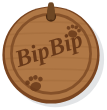
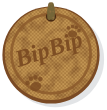
Thẻ tên: da giả/vải ép có vân dệt, dây da lộn khaki có vân nhung
- Bỏ vân gỗ; mặt thẻ nâu caramel mờ với lưới dệt mịn (pattern) và lốm đốm nhẹ (noise), chữ/dấu chân/viền khắc chìm nhạt hơn
- Dây da lộn màu xanh ô liu khaki như ảnh thật, thêm vân nhung (filter suede)
- Tạo lại PNG tag, strap, penguin-plush.svg; cập nhật README Rive

Claude-Session: https://claude.ai/code/session_01QMkjUPyG7HGKPseKjEMk1E

diff --git a/packages/web/penguin.js b/packages/web/penguin.js
@@ -661,7 +661,24 @@
     '<linearGradient id="' + N + 'beak" x1="0" y1="0" x2="0" y2="1">' +
       '<stop offset="0" stop-color="#F7DE80"/><stop offset=".55" stop-color="#F2D46B"/><stop offset="1" stop-color="#E9C95E"/>' +
     '</linearGradient>' +
-    '<clipPath id="' + N + 'tagclip"><circle cx="100" cy="163.6" r="15.4"/></clipPath>' +
+    // thẻ da giả/vải ép: lưới dệt mịn đều (pattern), lốm đốm nhẹ (noise), mờ
+    '<pattern id="' + N + 'tagweave" width="1.2" height="1.2" patternUnits="userSpaceOnUse">' +
+      '<rect width=".6" height=".6" fill="#FFE2B0" opacity=".11"/><rect x=".6" y=".6" width=".6" height=".6" fill="#FFE2B0" opacity=".11"/>' +
+      '<rect x=".6" width=".6" height=".6" fill="#4F2B10" opacity=".14"/><rect y=".6" width=".6" height=".6" fill="#4F2B10" opacity=".14"/>' +
+    '</pattern>' +
+    '<filter id="' + N + 'tagmot" x="0" y="0" width="100%" height="100%" color-interpolation-filters="sRGB">' +
+      '<feTurbulence type="fractalNoise" baseFrequency=".3" numOctaves="3" seed="7" result="n"/>' +
+      '<feColorMatrix in="n" values="0 0 0 0 .38 0 0 0 0 .2 0 0 0 0 .08 0 0 0 1.5 -.6" result="m"/>' +
+      '<feComposite in="m" in2="SourceGraphic" operator="in"/>' +
+    '</filter>' +
+    // da lộn: nhung mịn, viền hơi xù
+    '<filter id="' + N + 'suede" x="-40%" y="-40%" width="180%" height="180%" color-interpolation-filters="sRGB">' +
+      '<feTurbulence type="fractalNoise" baseFrequency=".95" numOctaves="2" seed="5" result="n"/>' +
+      '<feDisplacementMap in="SourceGraphic" in2="n" scale=".6" xChannelSelector="R" yChannelSelector="G" result="d"/>' +
+      '<feColorMatrix in="n" values="0 0 0 0 .72 0 0 0 0 .5 0 0 0 0 .3 0 0 0 1.3 -.7" result="h"/>' +
+      '<feComposite in="h" in2="d" operator="in" result="h2"/>' +
+      '<feMerge><feMergeNode in="d"/><feMergeNode in="h2"/></feMerge>' +
+    '</filter>' +
     '<linearGradient id="' + N + 'beakb" x1="0" y1="0" x2="0" y2="1">' +
       '<stop offset="0" stop-color="#EACB60"/><stop offset="1" stop-color="#E3BE4F"/>' +
     '</linearGradient>';
@@ -700,7 +717,7 @@
     'M88 32 C83 29 81 24 83 19 C85 24 89 27 94 29 Z M106 30 C110 26 115 24 119 25 C115 27 112 30 111 33 Z';
 
   // Dấu chân thú: một đệm lớn và bốn ngón, vẽ quanh gốc (0 0), dùng khắc chìm lên thẻ
-  var TAG_PAW = '<g fill="#6A3A1A" opacity=".85">' +
+  var TAG_PAW = '<g fill="#7E4E24" opacity=".85">' +
     '<ellipse cx="0" cy="1.6" rx="3" ry="2.4"/>' +
     '<circle cx="-3.6" cy="-1.6" r="1.25"/><circle cx="-1.25" cy="-3.2" r="1.25"/>' +
     '<circle cx="1.25" cy="-3.2" r="1.25"/><circle cx="3.6" cy="-1.6" r="1.25"/></g>';
@@ -716,11 +733,11 @@
         blob(100, 142, 64, 13, 'shade') +
       '</g>' +
       // dây da lộn của thẻ: nằm SAU đầu (đầu che phần dây đi lên cổ), chỉ ló ra dưới mép cằm; cùng nhịp lắc với thẻ
-      '<g class="pg-strap"><g transform="translate(0 -3)" fill="none" stroke-linecap="round">' +
-        '<path d="M99.4 151.4 C99 147.6 97.8 143 97.6 137.6" stroke="#6E4724" stroke-width="2.4"/>' +
-        '<path d="M100.6 151.4 C101 147.6 102.2 143 102.4 137.6" stroke="#6E4724" stroke-width="2.4"/>' +
-        '<path d="M99.4 151.4 C99 147.6 97.8 143 97.6 137.6" stroke="#9A6B3A" stroke-width=".9" opacity=".7"/>' +
-        '<path d="M100.6 151.4 C101 147.6 102.2 143 102.4 137.6" stroke="#9A6B3A" stroke-width=".9" opacity=".7"/>' +
+      '<g class="pg-strap"><g transform="translate(0 -3)" fill="none" stroke-linecap="round" filter="' + u('suede') + '">' +
+        '<path d="M99.4 151.4 C99 147.6 97.8 143 97.6 137.6" stroke="#756538" stroke-width="2.4"/>' +
+        '<path d="M100.6 151.4 C101 147.6 102.2 143 102.4 137.6" stroke="#756538" stroke-width="2.4"/>' +
+        '<path d="M99.4 151.4 C99 147.6 97.8 143 97.6 137.6" stroke="#9C8C58" stroke-width=".7" opacity=".5"/>' +
+        '<path d="M100.6 151.4 C101 147.6 102.2 143 102.4 137.6" stroke="#9C8C58" stroke-width=".7" opacity=".5"/>' +
       '</g></g>' +
       // head
       '<g class="pg-headg" filter="' + u('fuzz') + '">' +
@@ -738,26 +755,23 @@
         '<g transform="translate(0 4)"><path d="' + tufts + '" fill="#5A6475"/>' +
         strands('M97 29l-4 -10M101 28l1 -11M104 30l5 -9M92 31l-7 -6', '#5A6475', 1.6) + '</g>' +
       '</g>' +
-      // thẻ tên gỗ tròn, mặt mờ (không bóng), khắc chìm; thẻ treo ngay dưới cằm; dây da lộn là lớp riêng (pg-strap) nằm sau đầu; lắc quanh lỗ (100 148.2)
+      // thẻ tên tròn da giả/vải ép, mặt mờ (không bóng) có vân dệt, khắc chìm; thẻ treo ngay dưới cằm; dây da lộn là lớp riêng (pg-strap) nằm sau đầu; lắc quanh lỗ (100 148.2)
       '<g class="pg-tag"><g transform="translate(0 -3)">' +
         '<ellipse cx="101.4" cy="165.4" rx="16.3" ry="16" fill="#3E4757" opacity=".15"/>' +
-        '<circle cx="100" cy="164" r="16.2" fill="#7A4520"/>' +
-        '<circle cx="100" cy="163.6" r="15.4" fill="#B07846"/>' +
-        // vân gỗ rất nhẹ
-        '<g clip-path="' + u('tagclip') + '" fill="none" stroke="#8A5528" stroke-width=".5" opacity=".2">' +
-          '<path d="M82 154 Q100 151.6 118 154.4"/><path d="M82 157.6 Q100 155.6 118 158"/><path d="M82 161.4 Q100 159.8 118 161.8"/>' +
-          '<path d="M82 165.4 Q100 164 118 165.6"/><path d="M82 169.2 Q100 168 118 169.4"/><path d="M82 173 Q100 172 118 173"/>' +
-        '</g>' +
+        '<circle cx="100" cy="164" r="16.2" fill="#7A4A24"/>' +
+        '<circle cx="100" cy="163.6" r="15.4" fill="#BA8B48"/>' +
+        '<circle cx="100" cy="163.6" r="15.4" fill="#6A3A1A" filter="' + u('tagmot') + '" opacity=".7"/>' +
+        '<circle cx="100" cy="163.6" r="15.4" fill="' + u('tagweave') + '"/>' +
         // vòng viền chìm sát mép
-        '<circle cx="100" cy="163.6" r="13.2" fill="none" stroke="#7E4A25" stroke-width=".9" opacity=".85"/>' +
+        '<circle cx="100" cy="163.6" r="13.2" fill="none" stroke="#8C5A2C" stroke-width=".9" opacity=".85"/>' +
         '<circle cx="100" cy="151.2" r="1.7" fill="#4A2A12"/>' +
         // đoạn dây đi qua lỗ, vắt lên mép trên của thẻ
-        '<path d="M99.5 151.6 C99.3 150 99.4 148.6 99.8 147.2 M100.5 151.6 C100.7 150 100.6 148.6 100.2 147.2" fill="none" stroke="#6E4724" stroke-width="1.5" stroke-linecap="round"/>' +
+        '<path d="M99.5 151.6 C99.3 150 99.4 148.6 99.8 147.2 M100.5 151.6 C100.7 150 100.6 148.6 100.2 147.2" fill="none" stroke="#756538" stroke-width="1.5" stroke-linecap="round" filter="' + u('suede') + '"/>' +
         // họa tiết dấu chân và chữ khắc chìm
         '<g transform="translate(107.4 156.2) rotate(14) scale(.5)">' + TAG_PAW + '</g>' +
         '<g transform="translate(94.6 173.6) rotate(-16) scale(.62)">' + TAG_PAW + '</g>' +
         '<g transform="rotate(-18 100 164.2)" font-family="Brush Script MT, Segoe Script, Georgia, Times New Roman, serif" font-style="italic" font-weight="700" font-size="8" text-anchor="middle">' +
-          '<text x="100" y="164.5" fill="#6A3A1A">BipBip</text>' +
+          '<text x="100" y="164.5" fill="#7E4E24">BipBip</text>' +
         '</g>' +
       '</g></g>' +
       '<g transform="translate(100 33) rotate(-6) scale(1.1) translate(-100 -44)">' + P.CAP + '</g>' +

diff --git a/penguin.js b/penguin.js
@@ -661,7 +661,24 @@
     '<linearGradient id="' + N + 'beak" x1="0" y1="0" x2="0" y2="1">' +
       '<stop offset="0" stop-color="#F7DE80"/><stop offset=".55" stop-color="#F2D46B"/><stop offset="1" stop-color="#E9C95E"/>' +
     '</linearGradient>' +
-    '<clipPath id="' + N + 'tagclip"><circle cx="100" cy="163.6" r="15.4"/></clipPath>' +
+    // thẻ da giả/vải ép: lưới dệt mịn đều (pattern), lốm đốm nhẹ (noise), mờ
+    '<pattern id="' + N + 'tagweave" width="1.2" height="1.2" patternUnits="userSpaceOnUse">' +
+      '<rect width=".6" height=".6" fill="#FFE2B0" opacity=".11"/><rect x=".6" y=".6" width=".6" height=".6" fill="#FFE2B0" opacity=".11"/>' +
+      '<rect x=".6" width=".6" height=".6" fill="#4F2B10" opacity=".14"/><rect y=".6" width=".6" height=".6" fill="#4F2B10" opacity=".14"/>' +
+    '</pattern>' +
+    '<filter id="' + N + 'tagmot" x="0" y="0" width="100%" height="100%" color-interpolation-filters="sRGB">' +
+      '<feTurbulence type="fractalNoise" baseFrequency=".3" numOctaves="3" seed="7" result="n"/>' +
+      '<feColorMatrix in="n" values="0 0 0 0 .38 0 0 0 0 .2 0 0 0 0 .08 0 0 0 1.5 -.6" result="m"/>' +
+      '<feComposite in="m" in2="SourceGraphic" operator="in"/>' +
+    '</filter>' +
+    // da lộn: nhung mịn, viền hơi xù
+    '<filter id="' + N + 'suede" x="-40%" y="-40%" width="180%" height="180%" color-interpolation-filters="sRGB">' +
+      '<feTurbulence type="fractalNoise" baseFrequency=".95" numOctaves="2" seed="5" result="n"/>' +
+      '<feDisplacementMap in="SourceGraphic" in2="n" scale=".6" xChannelSelector="R" yChannelSelector="G" result="d"/>' +
+      '<feColorMatrix in="n" values="0 0 0 0 .72 0 0 0 0 .5 0 0 0 0 .3 0 0 0 1.3 -.7" result="h"/>' +
+      '<feComposite in="h" in2="d" operator="in" result="h2"/>' +
+      '<feMerge><feMergeNode in="d"/><feMergeNode in="h2"/></feMerge>' +
+    '</filter>' +
     '<linearGradient id="' + N + 'beakb" x1="0" y1="0" x2="0" y2="1">' +
       '<stop offset="0" stop-color="#EACB60"/><stop offset="1" stop-color="#E3BE4F"/>' +
     '</linearGradient>';
@@ -700,7 +717,7 @@
     'M88 32 C83 29 81 24 83 19 C85 24 89 27 94 29 Z M106 30 C110 26 115 24 119 25 C115 27 112 30 111 33 Z';
 
   // Dấu chân thú: một đệm lớn và bốn ngón, vẽ quanh gốc (0 0), dùng khắc chìm lên thẻ
-  var TAG_PAW = '<g fill="#6A3A1A" opacity=".85">' +
+  var TAG_PAW = '<g fill="#7E4E24" opacity=".85">' +
     '<ellipse cx="0" cy="1.6" rx="3" ry="2.4"/>' +
     '<circle cx="-3.6" cy="-1.6" r="1.25"/><circle cx="-1.25" cy="-3.2" r="1.25"/>' +
     '<circle cx="1.25" cy="-3.2" r="1.25"/><circle cx="3.6" cy="-1.6" r="1.25"/></g>';
@@ -716,11 +733,11 @@
         blob(100, 142, 64, 13, 'shade') +
       '</g>' +
       // dây da lộn của thẻ: nằm SAU đầu (đầu che phần dây đi lên cổ), chỉ ló ra dưới mép cằm; cùng nhịp lắc với thẻ
-      '<g class="pg-strap"><g transform="translate(0 -3)" fill="none" stroke-linecap="round">' +
-        '<path d="M99.4 151.4 C99 147.6 97.8 143 97.6 137.6" stroke="#6E4724" stroke-width="2.4"/>' +
-        '<path d="M100.6 151.4 C101 147.6 102.2 143 102.4 137.6" stroke="#6E4724" stroke-width="2.4"/>' +
-        '<path d="M99.4 151.4 C99 147.6 97.8 143 97.6 137.6" stroke="#9A6B3A" stroke-width=".9" opacity=".7"/>' +
-        '<path d="M100.6 151.4 C101 147.6 102.2 143 102.4 137.6" stroke="#9A6B3A" stroke-width=".9" opacity=".7"/>' +
+      '<g class="pg-strap"><g transform="translate(0 -3)" fill="none" stroke-linecap="round" filter="' + u('suede') + '">' +
+        '<path d="M99.4 151.4 C99 147.6 97.8 143 97.6 137.6" stroke="#756538" stroke-width="2.4"/>' +
+        '<path d="M100.6 151.4 C101 147.6 102.2 143 102.4 137.6" stroke="#756538" stroke-width="2.4"/>' +
+        '<path d="M99.4 151.4 C99 147.6 97.8 143 97.6 137.6" stroke="#9C8C58" stroke-width=".7" opacity=".5"/>' +
+        '<path d="M100.6 151.4 C101 147.6 102.2 143 102.4 137.6" stroke="#9C8C58" stroke-width=".7" opacity=".5"/>' +
       '</g></g>' +
       // head
       '<g class="pg-headg" filter="' + u('fuzz') + '">' +
@@ -738,26 +755,23 @@
         '<g transform="translate(0 4)"><path d="' + tufts + '" fill="#5A6475"/>' +
         strands('M97 29l-4 -10M101 28l1 -11M104 30l5 -9M92 31l-7 -6', '#5A6475', 1.6) + '</g>' +
       '</g>' +
-      // thẻ tên gỗ tròn, mặt mờ (không bóng), khắc chìm; thẻ treo ngay dưới cằm; dây da lộn là lớp riêng (pg-strap) nằm sau đầu; lắc quanh lỗ (100 148.2)
+      // thẻ tên tròn da giả/vải ép, mặt mờ (không bóng) có vân dệt, khắc chìm; thẻ treo ngay dưới cằm; dây da lộn là lớp riêng (pg-strap) nằm sau đầu; lắc quanh lỗ (100 148.2)
       '<g class="pg-tag"><g transform="translate(0 -3)">' +
         '<ellipse cx="101.4" cy="165.4" rx="16.3" ry="16" fill="#3E4757" opacity=".15"/>' +
-        '<circle cx="100" cy="164" r="16.2" fill="#7A4520"/>' +
-        '<circle cx="100" cy="163.6" r="15.4" fill="#B07846"/>' +
-        // vân gỗ rất nhẹ
-        '<g clip-path="' + u('tagclip') + '" fill="none" stroke="#8A5528" stroke-width=".5" opacity=".2">' +
-          '<path d="M82 154 Q100 151.6 118 154.4"/><path d="M82 157.6 Q100 155.6 118 158"/><path d="M82 161.4 Q100 159.8 118 161.8"/>' +
-          '<path d="M82 165.4 Q100 164 118 165.6"/><path d="M82 169.2 Q100 168 118 169.4"/><path d="M82 173 Q100 172 118 173"/>' +
-        '</g>' +
+        '<circle cx="100" cy="164" r="16.2" fill="#7A4A24"/>' +
+        '<circle cx="100" cy="163.6" r="15.4" fill="#BA8B48"/>' +
+        '<circle cx="100" cy="163.6" r="15.4" fill="#6A3A1A" filter="' + u('tagmot') + '" opacity=".7"/>' +
+        '<circle cx="100" cy="163.6" r="15.4" fill="' + u('tagweave') + '"/>' +
         // vòng viền chìm sát mép
-        '<circle cx="100" cy="163.6" r="13.2" fill="none" stroke="#7E4A25" stroke-width=".9" opacity=".85"/>' +
+        '<circle cx="100" cy="163.6" r="13.2" fill="none" stroke="#8C5A2C" stroke-width=".9" opacity=".85"/>' +
         '<circle cx="100" cy="151.2" r="1.7" fill="#4A2A12"/>' +
         // đoạn dây đi qua lỗ, vắt lên mép trên của thẻ
-        '<path d="M99.5 151.6 C99.3 150 99.4 148.6 99.8 147.2 M100.5 151.6 C100.7 150 100.6 148.6 100.2 147.2" fill="none" stroke="#6E4724" stroke-width="1.5" stroke-linecap="round"/>' +
+        '<path d="M99.5 151.6 C99.3 150 99.4 148.6 99.8 147.2 M100.5 151.6 C100.7 150 100.6 148.6 100.2 147.2" fill="none" stroke="#756538" stroke-width="1.5" stroke-linecap="round" filter="' + u('suede') + '"/>' +
         // họa tiết dấu chân và chữ khắc chìm
         '<g transform="translate(107.4 156.2) rotate(14) scale(.5)">' + TAG_PAW + '</g>' +
         '<g transform="translate(94.6 173.6) rotate(-16) scale(.62)">' + TAG_PAW + '</g>' +
         '<g transform="rotate(-18 100 164.2)" font-family="Brush Script MT, Segoe Script, Georgia, Times New Roman, serif" font-style="italic" font-weight="700" font-size="8" text-anchor="middle">' +
-          '<text x="100" y="164.5" fill="#6A3A1A">BipBip</text>' +
+          '<text x="100" y="164.5" fill="#7E4E24">BipBip</text>' +
         '</g>' +
       '</g></g>' +
       '<g transform="translate(100 33) rotate(-6) scale(1.1) translate(-100 -44)">' + P.CAP + '</g>' +

diff --git a/rive/README.md b/rive/README.md
@@ -28,7 +28,7 @@ Tên cố định: `root`, `body`, `head`, `tag`, `strap`, `wing_l`, `wing_r`, `
 | `root` | gốc | tất cả (nhảy, nghiêng cả người) | 100, 226 |
 | `body` | `root` | `body` | 100, 224 |
 | `head` | `body` | `head`, `cap`, `brow_*`, `eyes_*`, `cheek_*`, `mouth`, `beak_*` | 100, 135 (gợi ý) |
-| `tag`, `strap` | `body` | `tag` (đĩa gỗ tròn, mặt mờ, đường kính khoảng 32 đơn vị, thẻ treo ngay dưới cằm trên bụng) và `strap` (dây da lộn đi vòng sau cổ, **nằm dưới lớp `head`** nên đầu che phần dây đi lên cổ, chỉ ló ra dưới mép cằm; không bao giờ nằm trên mặt hay cằm trắng); cả hai lắc cùng nhịp quanh lỗ treo | 100, 148,2 |
+| `tag`, `strap` | `body` | `tag` (đĩa tròn da giả/vải ép màu nâu caramel, mặt mờ có vân dệt mịn, đường kính khoảng 32 đơn vị, thẻ treo ngay dưới cằm trên bụng) và `strap` (dây da lộn màu xanh ô liu khaki, có vân nhung, đi vòng sau cổ, **nằm dưới lớp `head`** nên đầu che phần dây đi lên cổ, chỉ ló ra dưới mép cằm; không bao giờ nằm trên mặt hay cằm trắng); cả hai lắc cùng nhịp quanh lỗ treo | 100, 148,2 |
 | `eye_l`, `eye_r` | `head` | `eye_l`, `eye_r` (nhìn quanh, chớp mắt) | 64, 94 và 136, 94 |
 | `wing_l`, `wing_r` | `body` | `wing_l`, `wing_r` | 41, 149 và 159, 149 |
 | `foot_l`, `foot_r` | `root` | `foot_l`, `foot_r` | 71, 227 và 129, 227 |

diff --git a/docs/PLAN.md b/docs/PLAN.md
@@ -38,7 +38,7 @@ sau. Phần nào cần con người (dựng animation trong Rive editor) đượ
   `feTurbulence`/`feDisplacementMap`). Bản `classic` đã bỏ.
 - Các bộ phận đã tách lớp với class `pg-*`: `pg-body`, `pg-belly`, `pg-face`,
   `pg-wing-l/r`, `pg-foot-l/r`, `pg-pupil`, `pg-beak-top/bot`, `pg-brows`,
-  `pg-eyes-happy/closed/heart`, `pg-mouth`, `pg-cap`, `pg-tag` (thẻ tên gỗ tròn dưới cằm, luôn hiện; lắc) và `pg-strap` (dây da lộn nằm sau đầu), hiệu ứng (`pg-confetti`,
+  `pg-eyes-happy/closed/heart`, `pg-mouth`, `pg-cap`, `pg-tag` (thẻ tên tròn da giả dưới cằm, luôn hiện; lắc) và `pg-strap` (dây da lộn nằm sau đầu), hiệu ứng (`pg-confetti`,
   `pg-heart`, `pg-z`, `pg-tear`, `pg-flame`...).
 - 15 trạng thái: lặp `idle, think, sleep, dance, walk, talk`; một lần `wave,
   happy, celebrate, sad, surprised, no, yes, love, streak` (thời lượng ở `ONE_SHOT`).
